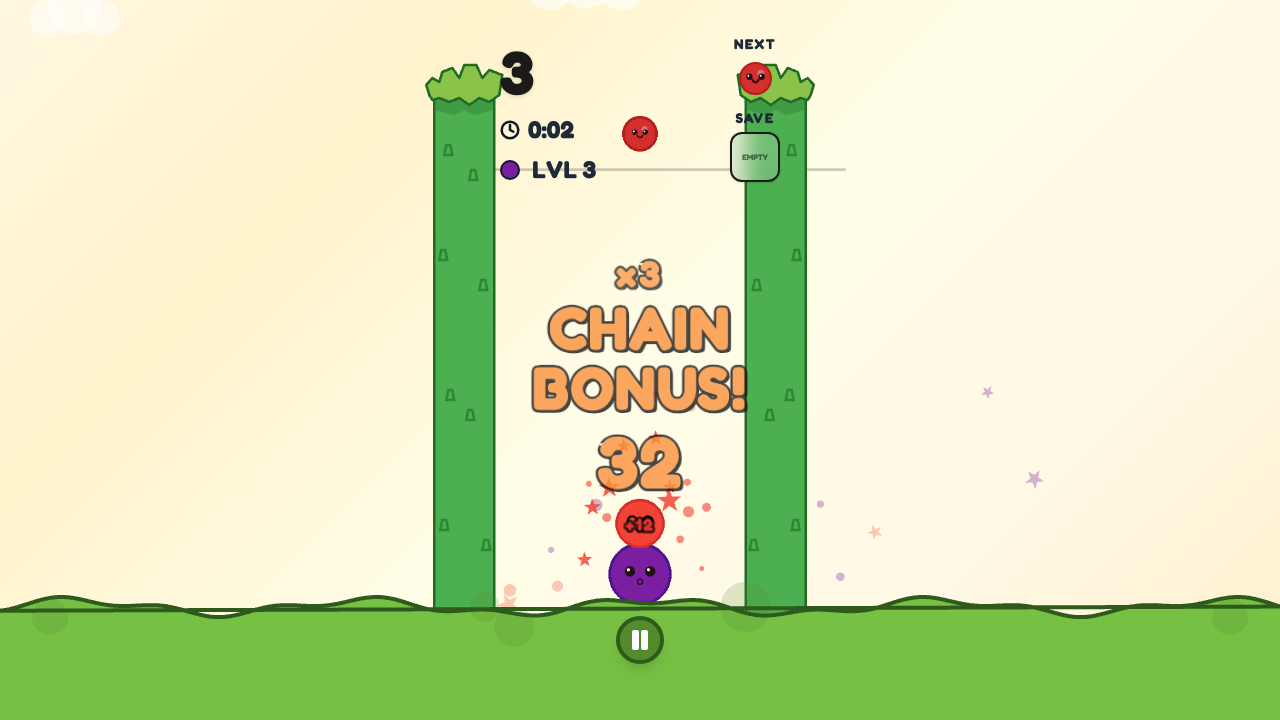
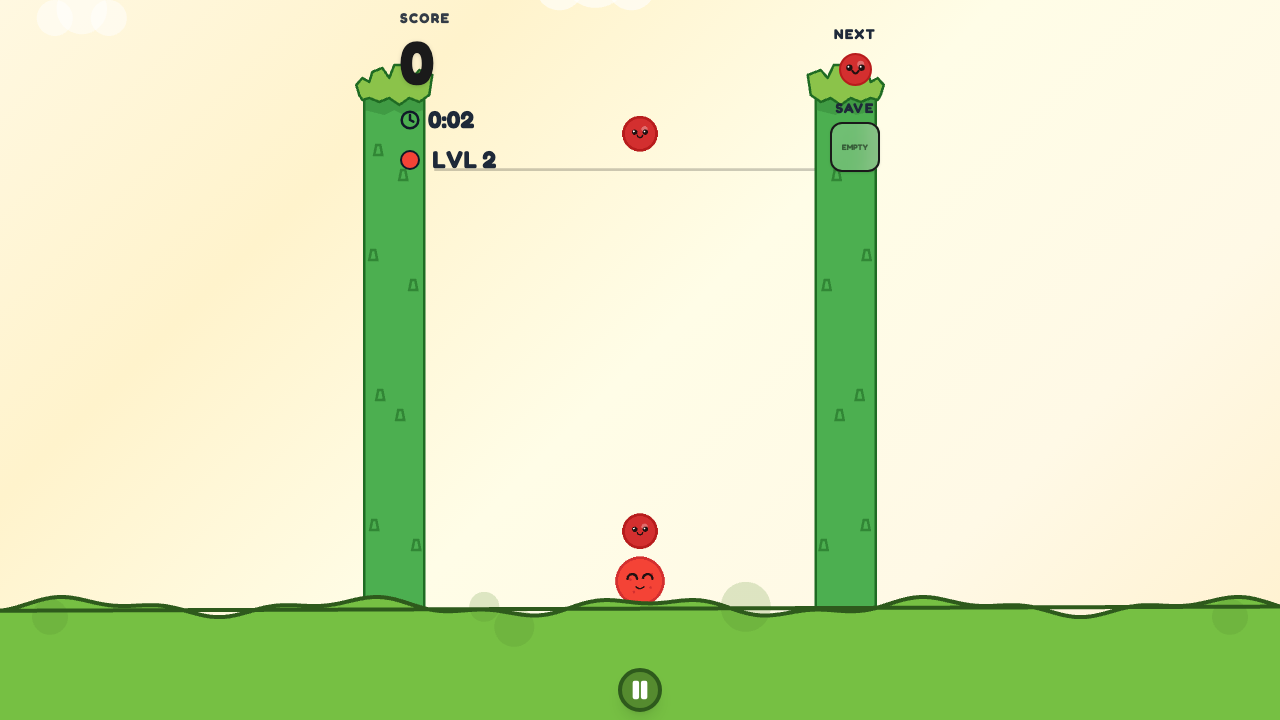
refactor: Responsive layout with proper centering, flex-based game area, walls at game area edges

diff --git a/components/GameCanvas.tsx b/components/GameCanvas.tsx
@@ -1,6 +1,6 @@
 
 // ... imports
-import React, { useEffect, useRef, useState } from 'react';
+import React, { useEffect, useRef, useState, useCallback } from 'react';
 import { GameSettings, GameStats, FruitTier, LeaderboardEntry, PopupData, PointEvent, PopUpType } from '../types';
 import { GameEngine } from '../services/GameEngine';
 import { DANGER_Y_PERCENT } from '../constants';
@@ -116,6 +116,22 @@ export const GameCanvas: React.FC<GameCanvasProps> = ({ settings, onUpdateSettin
     };
 
     // --- Track Game Area Position ---
+    // The LayoutContainer now handles sizing. We just need to track the game area ref position.
+    const handleLayoutSizeChange = useCallback((_width: number, _height: number, _top: number, _left: number) => {
+        // LayoutContainer size changed, update game area dimensions
+        requestAnimationFrame(() => {
+            if (gameAreaRef.current) {
+                const rect = gameAreaRef.current.getBoundingClientRect();
+                setGameAreaDimensions({
+                    width: rect.width,
+                    height: rect.height,
+                    top: rect.top,
+                    left: rect.left
+                });
+            }
+        });
+    }, []);
+
     useEffect(() => {
         const updateGameAreaPosition = () => {
             if (gameAreaRef.current) {
@@ -324,10 +340,10 @@ export const GameCanvas: React.FC<GameCanvasProps> = ({ settings, onUpdateSettin
             {/* 1.2 Clouds Overlay — now rendered by Pixi.js inside the game canvas */}
 
             {/* 2. Main Layout Container */}
-            <LayoutContainer>
+            <LayoutContainer onSizeChange={handleLayoutSizeChange}>
 
-                {/* TOP UI (HUD) - Flexible spacer with 20px top padding as requested */}
-                <div className="flex-[1.5] flex flex-col justify-start relative z-30 min-h-[100px] pt-[20px] pb-1">
+                {/* TOP UI (HUD) - Compact top bar */}
+                <div className="shrink-0 flex flex-col justify-start relative z-30 pt-[8px] pb-[4px] px-2">
                     <GameHUD
                         score={currentStateScore}
                         playTime={playTime}
@@ -338,24 +354,22 @@ export const GameCanvas: React.FC<GameCanvasProps> = ({ settings, onUpdateSettin
                     />
                 </div>
 
-                {/* 3. Game Area (4:5 Aspect Ratio) - The Anchor */}
-                <div ref={gameAreaRef} className="w-full aspect-[4/5] relative shrink-1 z-10">
+                {/* 3. Game Area - Fills remaining space between HUD and bottom controls */}
+                <div ref={gameAreaRef} className="flex-1 relative z-10 min-h-0">
                     <GameArea canvasRef={canvasRef}>
-                        {/* Overlays moved to root level for correct z-index stacking */}
-                        {/* New Danger Overlay sits INSIDE the game area scaling context */}
                         <DangerOverlay dangerTime={limitTime} />
                     </GameArea>
                 </div>
 
-                {/* BOTTOM UI - Fixed height spacer. */}
-                <div className="h-[75px] shrink-0 flex flex-col justify-end items-center z-40 w-full pb-[20px]">
+                {/* BOTTOM UI - Compact bottom bar */}
+                <div className="shrink-0 flex flex-col justify-end items-center z-40 w-full pb-[8px]">
                     <div className="flex items-center gap-3">
                         <button
                             onClick={handlePauseToggle}
-                            className="w-12 h-12 bg-[#558B2F] hover:bg-[#33691E] text-white border-4 border-[#2E5A1C] rounded-full flex items-center justify-center shadow-lg active:scale-95 transition-transform"
+                            className="w-11 h-11 bg-[#558B2F] hover:bg-[#33691E] text-white border-4 border-[#2E5A1C] rounded-full flex items-center justify-center shadow-lg active:scale-95 transition-transform"
                             aria-label="Pause Game"
                         >
-                            <Pause size={24} fill="currentColor" />
+                            <Pause size={22} fill="currentColor" />
                         </button>
                     </div>
                 </div>

diff --git a/components/LayoutContainer.tsx b/components/LayoutContainer.tsx
@@ -1,19 +1,55 @@
-import React, { ReactNode } from 'react';
+import React, { ReactNode, useEffect, useState, useCallback } from 'react';
 
 interface LayoutContainerProps {
     children: ReactNode;
+    onSizeChange?: (width: number, height: number, top: number, left: number) => void;
 }
 
-export const LayoutContainer: React.FC<LayoutContainerProps> = ({ children }) => {
+export const LayoutContainer: React.FC<LayoutContainerProps> = ({ children, onSizeChange }) => {
+    const [containerRect, setContainerRect] = useState({ width: 0, height: 0, top: 0, left: 0 });
+
+    const updateSize = useCallback(() => {
+        const vw = window.innerWidth;
+        const vh = window.innerHeight;
+        const aspectRatio = 4 / 5;
+
+        let containerWidth: number;
+        let containerHeight: number;
+
+        if (vw / vh < aspectRatio) {
+            // Narrow screen: width-constrained
+            containerWidth = vw;
+            containerHeight = vw / aspectRatio;
+        } else {
+            // Wide screen: height-constrained
+            containerHeight = vh;
+            containerWidth = vh * aspectRatio;
+        }
+
+        const left = (vw - containerWidth) / 2;
+        const top = (vh - containerHeight) / 2;
+
+        setContainerRect({ width: containerWidth, height: containerHeight, top, left });
+        onSizeChange?.(containerWidth, containerHeight, top, left);
+    }, [onSizeChange]);
+
+    useEffect(() => {
+        updateSize();
+        window.addEventListener('resize', updateSize);
+        return () => window.removeEventListener('resize', updateSize);
+    }, [updateSize]);
+
     return (
-        <div className="w-full h-[100svh] flex justify-center overflow-hidden">
-            {/* 
-                Container roughly limits to mobile aspect ratio (~9:20) on desktop via max-w.
-                On mobile, it fills the width (because screen < max-w usually).
-            */}
-            <div className="relative w-full max-w-[50svh] h-full flex flex-col">
-                {children}
-            </div>
+        <div
+            className="fixed flex flex-col"
+            style={{
+                width: containerRect.width,
+                height: containerRect.height,
+                top: containerRect.top,
+                left: containerRect.left,
+            }}
+        >
+            {children}
         </div>
     );
 };

diff --git a/services/renderers/WallRenderer.ts b/services/renderers/WallRenderer.ts
@@ -20,11 +20,7 @@ export class WallRenderer {
 
     /**
      * Draw both grass walls in screen coordinates.
-     * @param gameAreaWidth Game area width in CSS pixels
-     * @param gameAreaHeight Game area height in CSS pixels
-     * @param containerTop Container Y position on screen (CSS pixels)
-     * @param containerLeft Container X position on screen (CSS pixels)
-     * @param screenHeight Viewport height in CSS pixels
+     * Walls are positioned exactly at the left and right edges of the game area.
      */
     draw(gameAreaWidth: number, gameAreaHeight: number, containerTop: number, containerLeft: number, screenHeight: number): void {
         this.leftWall.removeChildren();
@@ -34,13 +30,13 @@ export class WallRenderer {
         const topMargin = 60;
         const wallHeight = screenHeight - topMargin;
 
-        // Left wall: positioned at containerLeft, overlapping the game area edge by ~10px
-        this.leftWall.x = containerLeft - 10;
+        // Left wall: positioned so its right edge touches the game area left edge
+        this.leftWall.x = containerLeft - wallWidth;
         this.leftWall.y = topMargin;
         this.leftWall.addChild(this.drawWallShape(wallHeight, 'left'));
 
-        // Right wall: positioned at containerLeft + gameAreaWidth - wallWidth + 10, overlapping the game area edge
-        this.rightWall.x = containerLeft + gameAreaWidth - wallWidth + 10;
+        // Right wall: positioned so its left edge touches the game area right edge
+        this.rightWall.x = containerLeft + gameAreaWidth;
         this.rightWall.y = topMargin;
         this.rightWall.addChild(this.drawWallShape(wallHeight, 'right'));
     }

diff --git a/components/GameArea.tsx b/components/GameArea.tsx
@@ -7,7 +7,7 @@ interface GameAreaProps {
 
 export const GameArea: React.FC<GameAreaProps> = React.memo(({ children, canvasRef }) => {
     return (
-        <div className="relative w-full aspect-[4/5] bg-transparent overflow-visible">
+        <div className="relative w-full h-full bg-transparent overflow-hidden">
             {/* Full-viewport canvas for Pixi rendering */}
             <canvas
                 ref={canvasRef}
